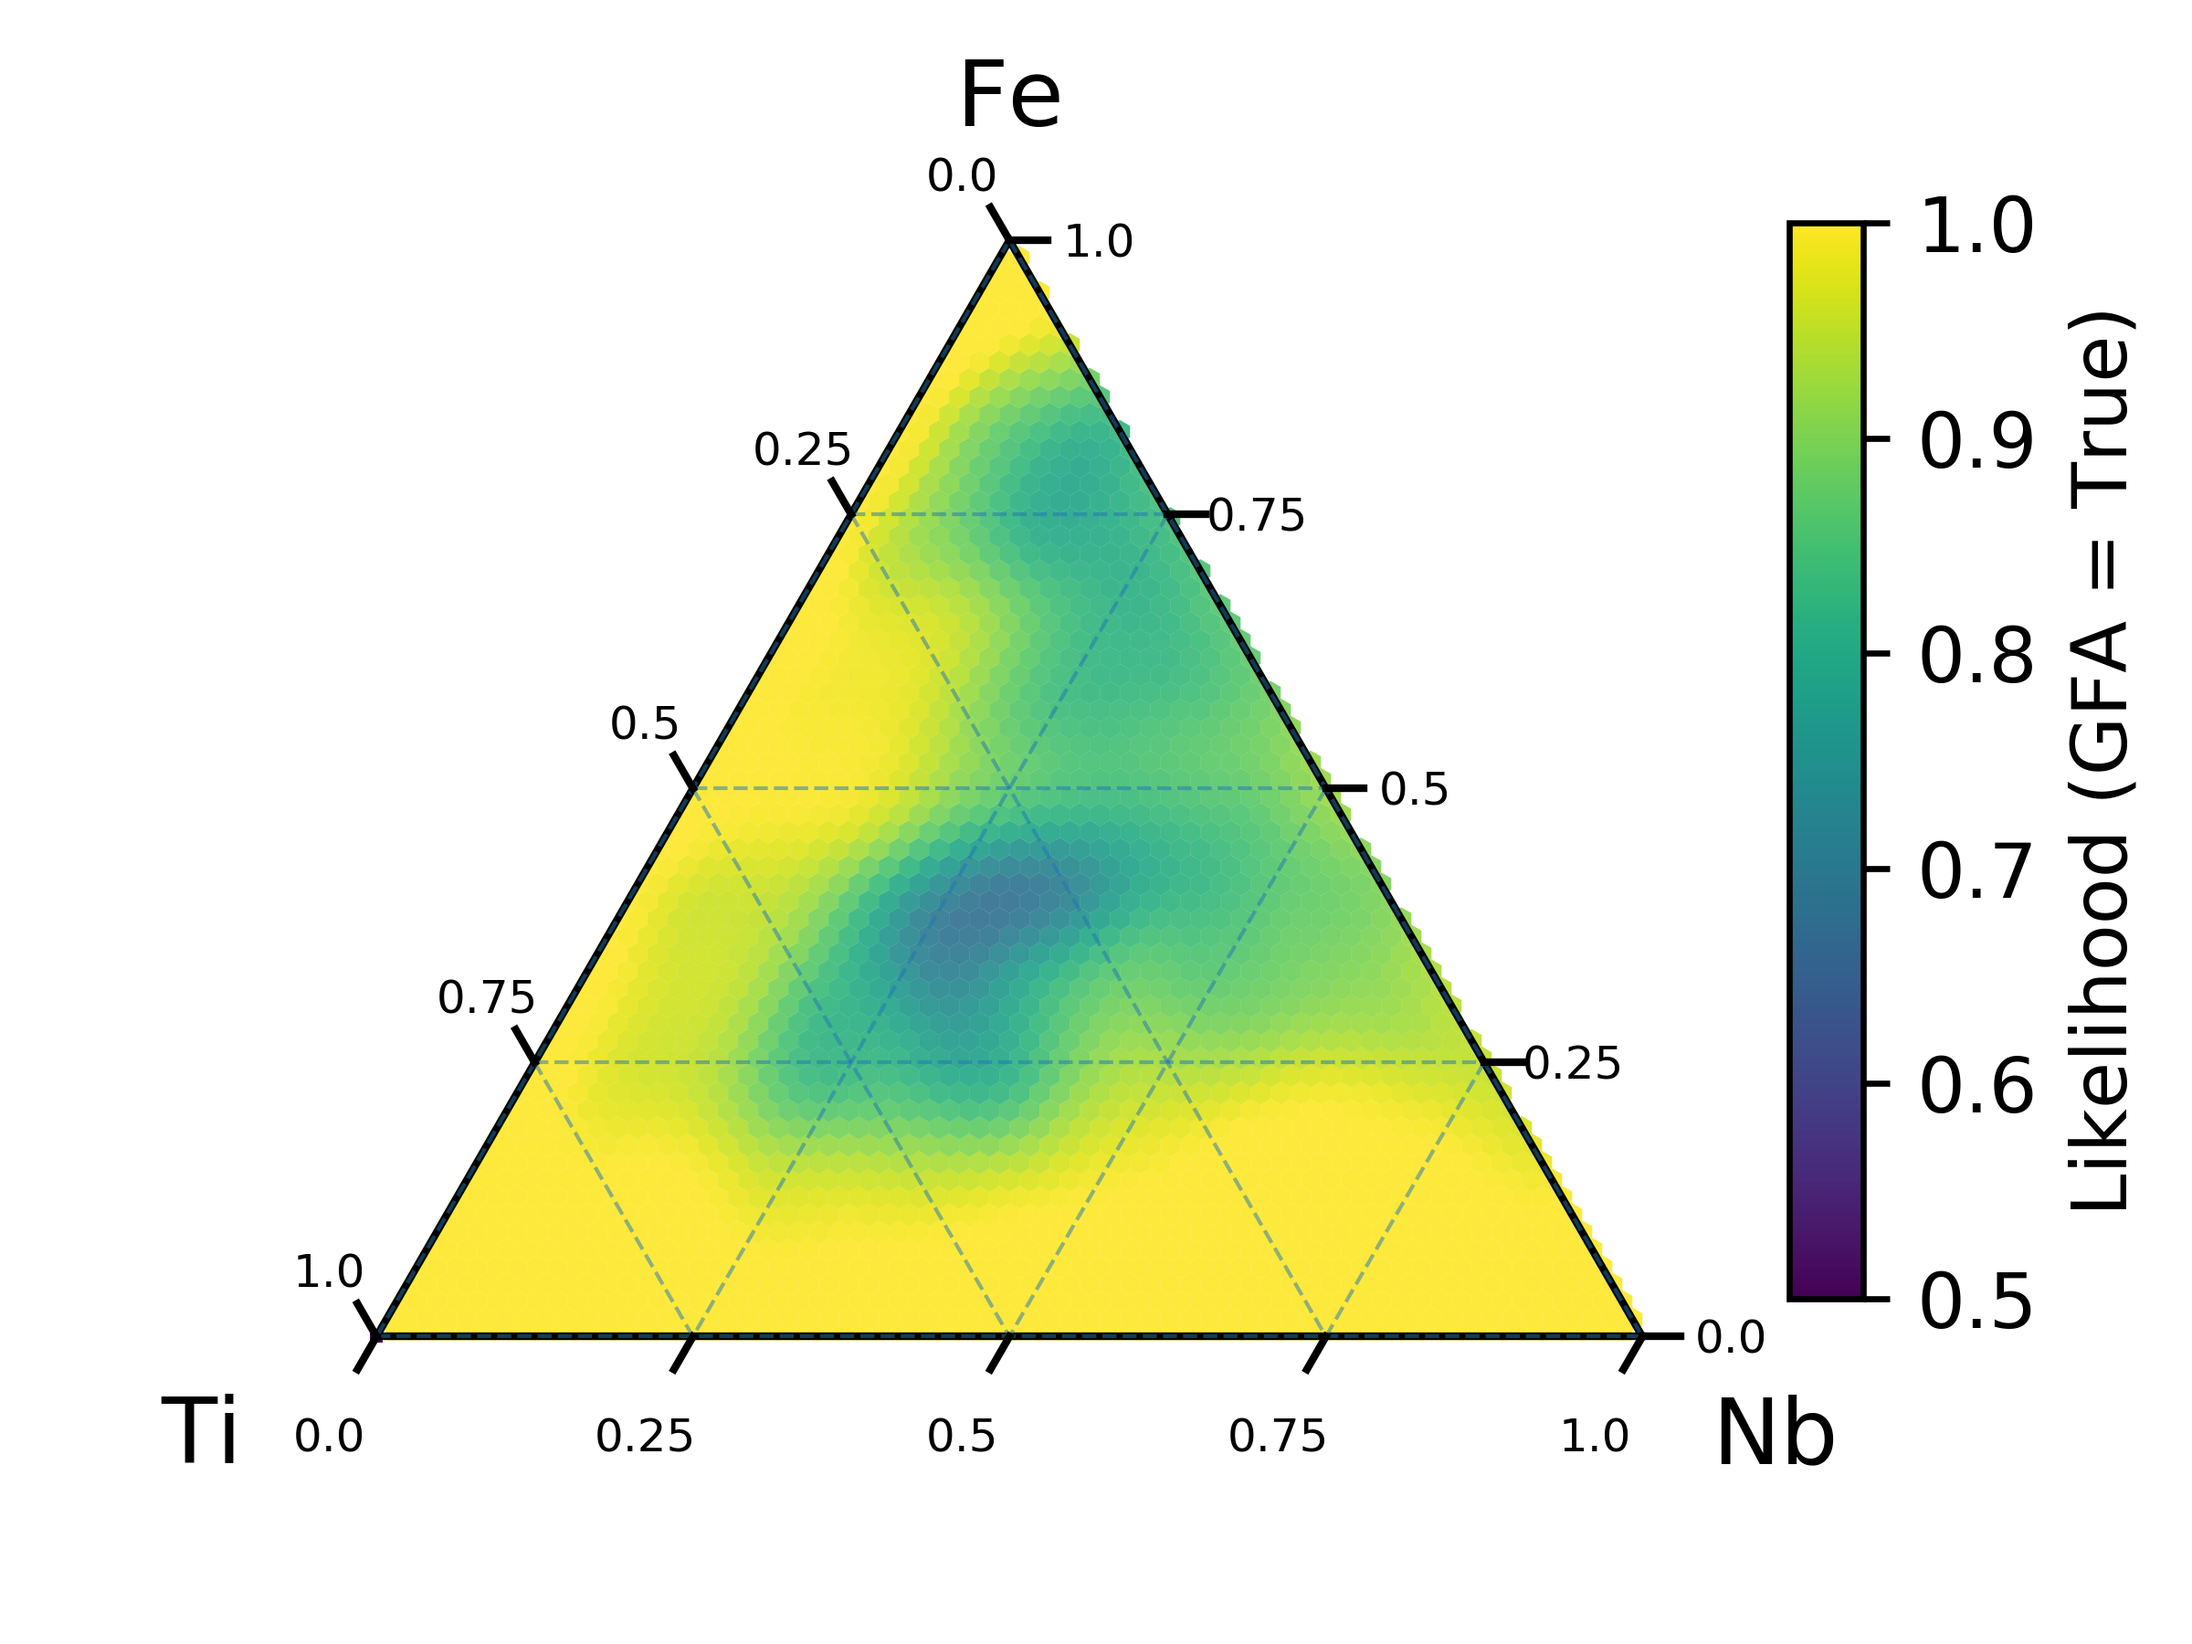
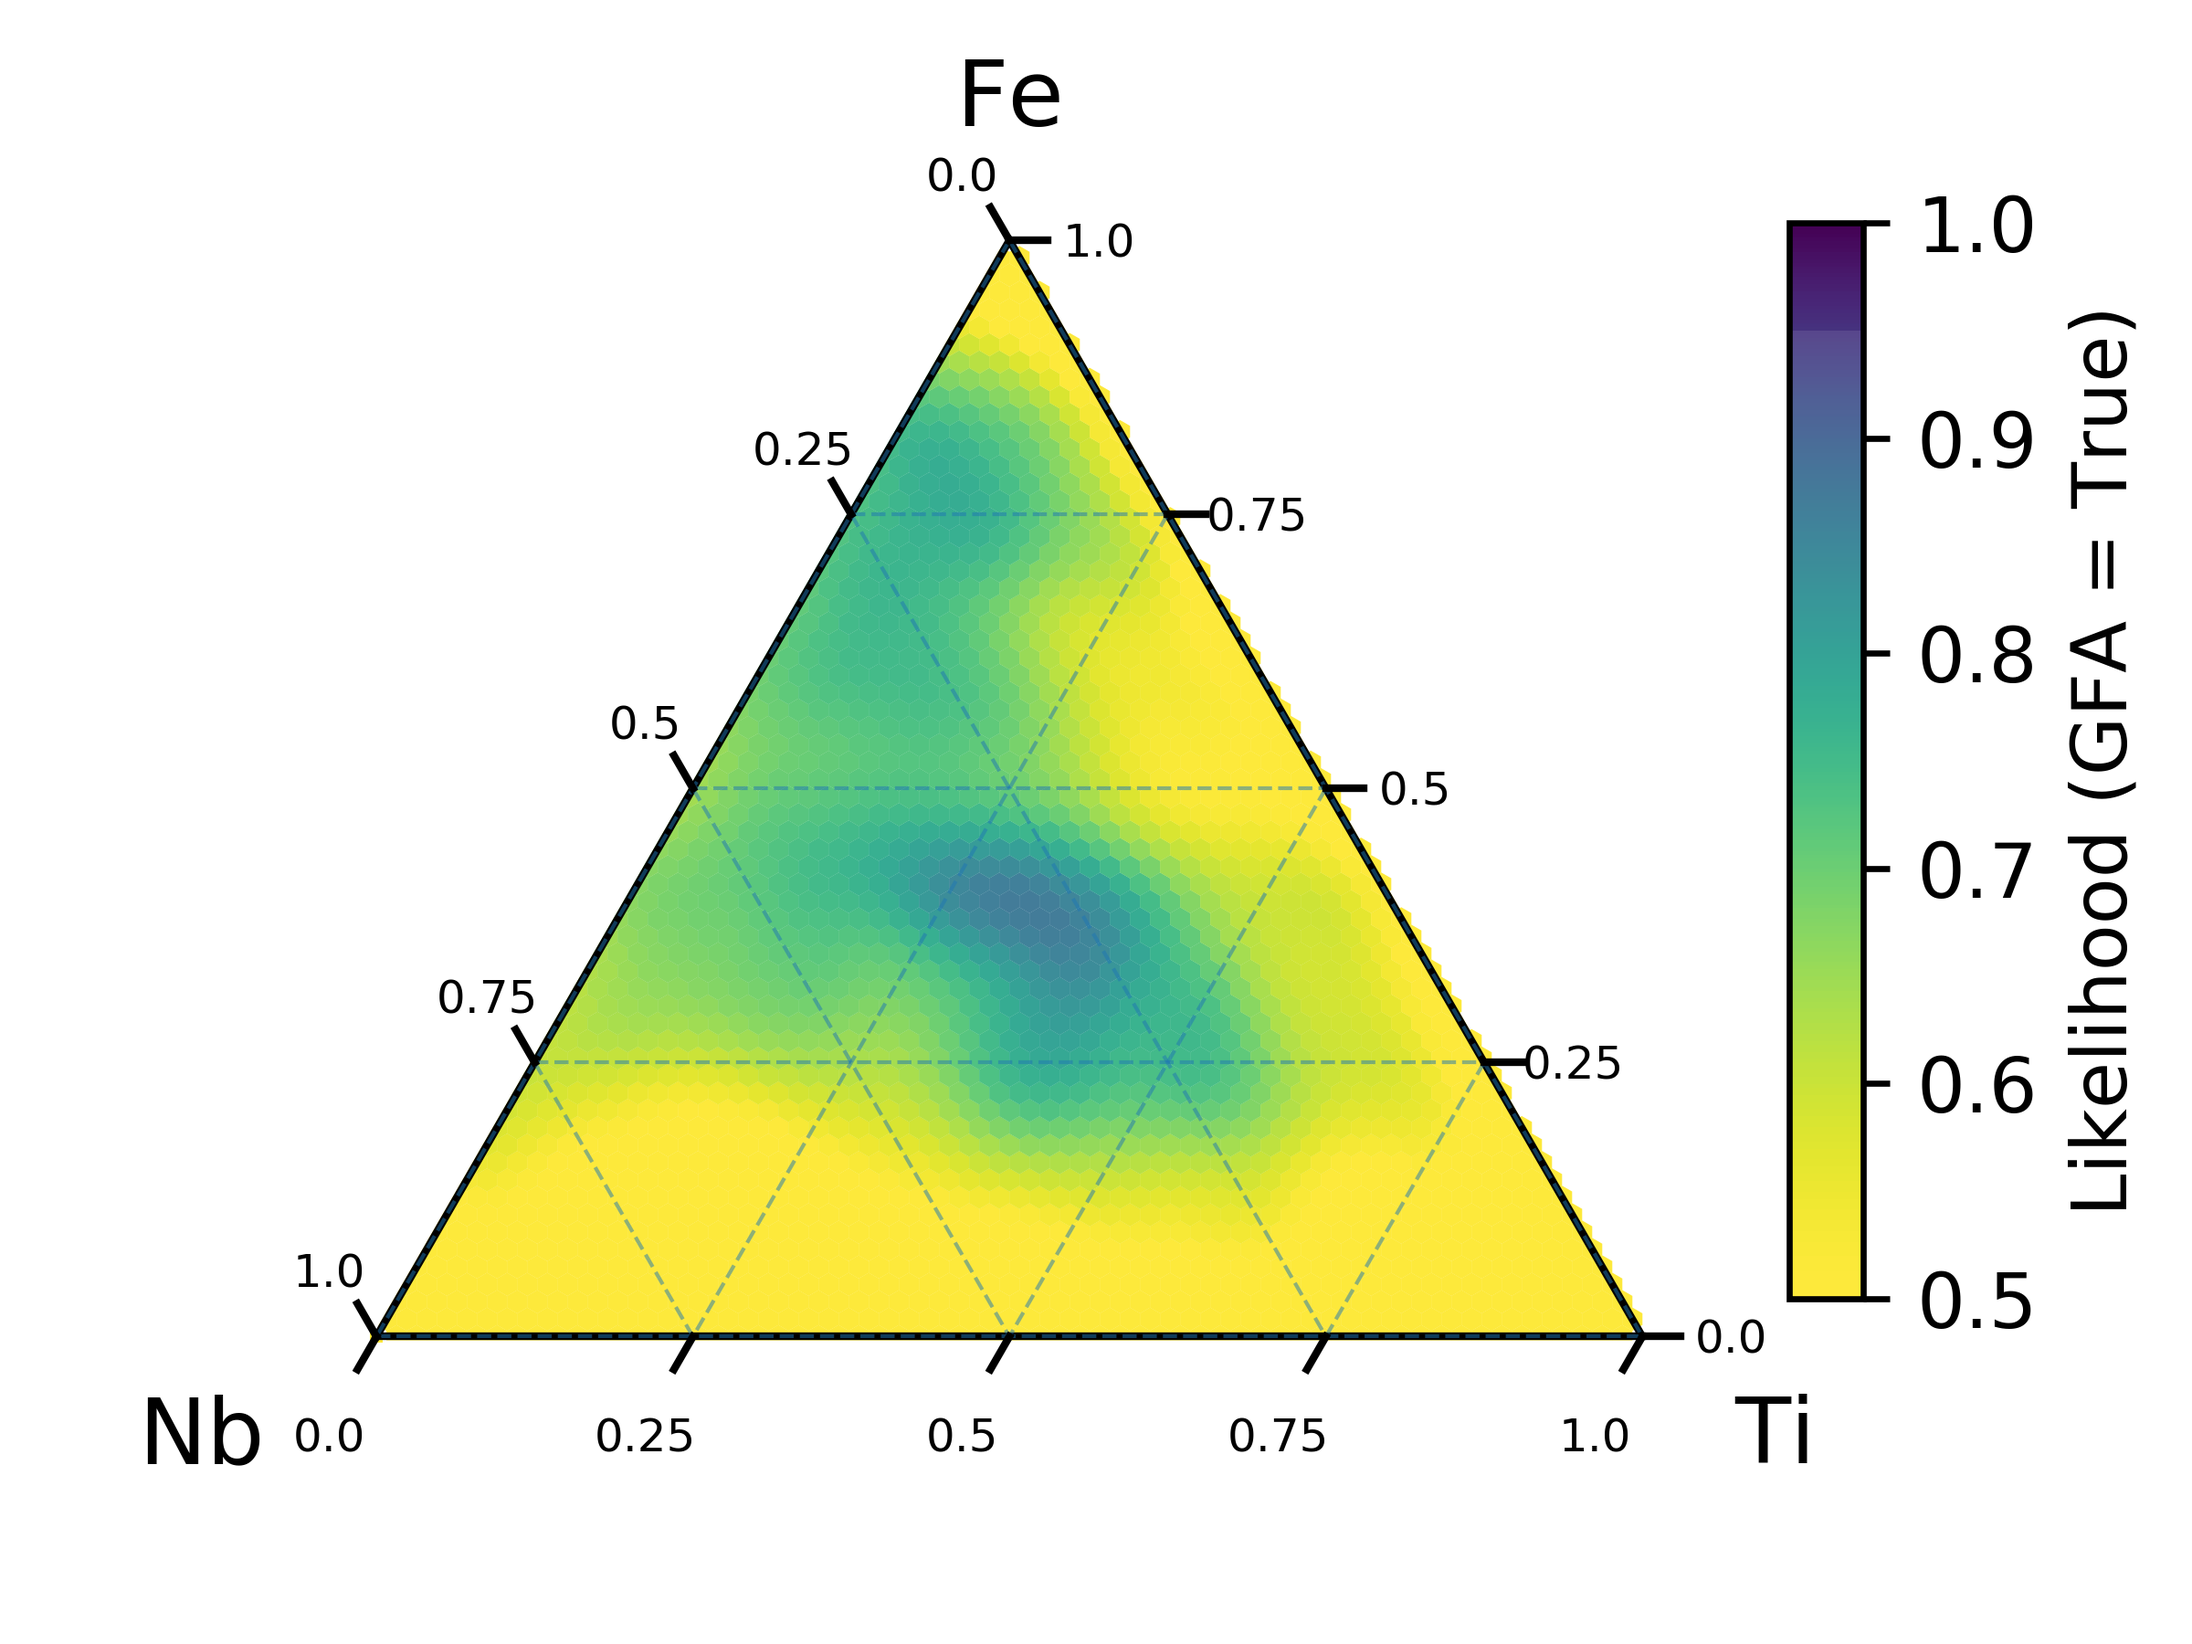
Bug fix: Colorbar for "heatmap" plots

diff --git a/scripts/figure_plotters/plotTernary.py b/scripts/figure_plotters/plotTernary.py
@@ -89,7 +89,7 @@ def plt_ternary_save(data, tertitle='',  labelNames=('Species A','Species B','Sp
     tax.heatmap(d, style=style, cmap=cmap, vmin=vmin, vmax=vmax, colorbar=False)
 
     if cb:
-        cdat = ax.imshow([[0]], vmin=vmin, vmax=vmax)
+        cdat = ax.imshow([[0]], cmap=cmap, vmin=vmin, vmax=vmax)
         cbar = figure.colorbar(cdat, ax=ax, cax=cax)
         pos1 = cax.get_position()
         pos2 = [pos1.x0 - 0.05, pos1.y0 + 0.1, pos1.width, pos1.height * 0.85]
